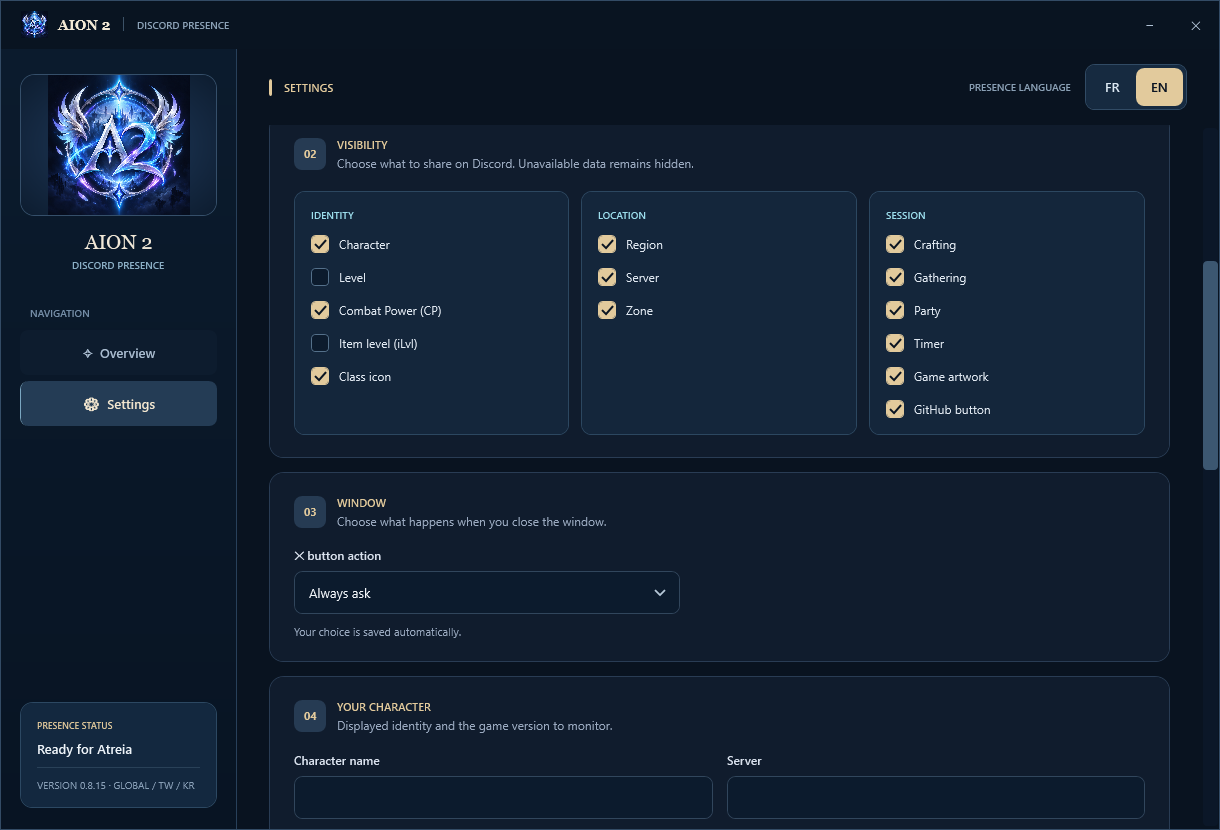
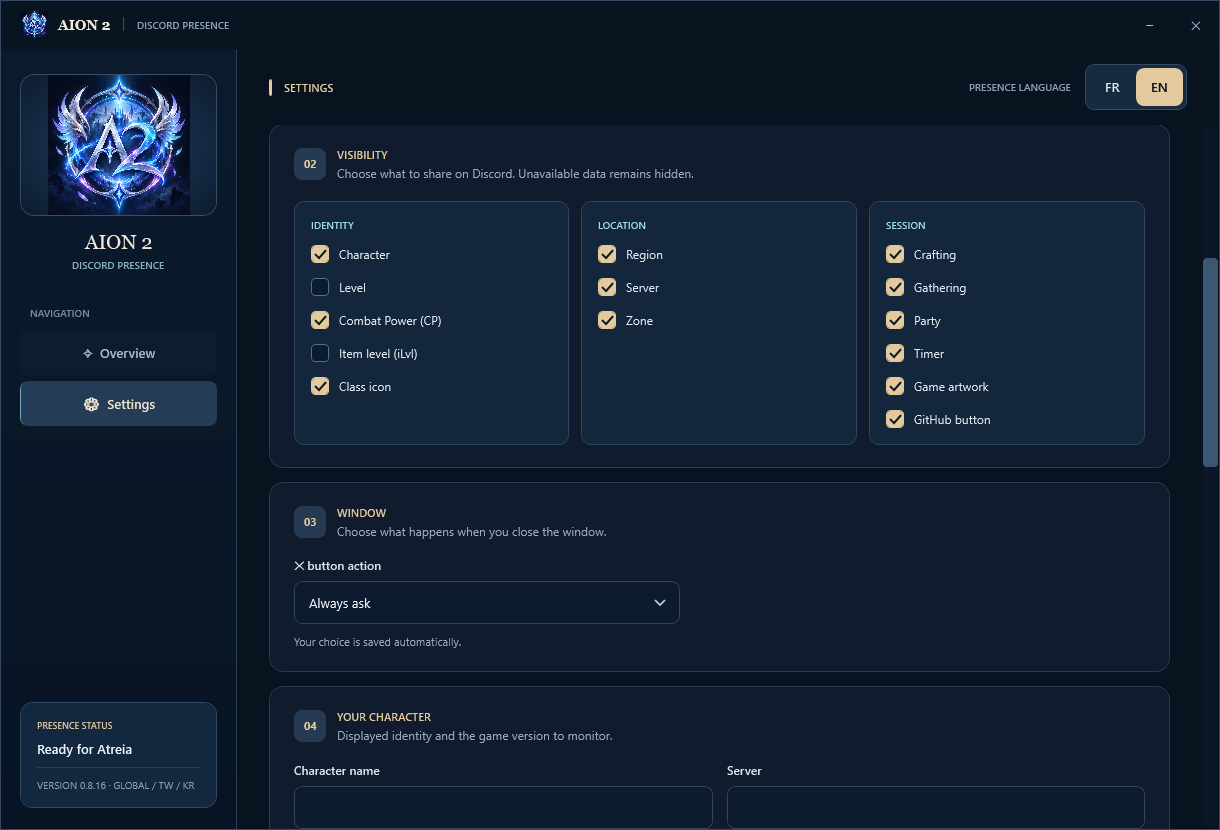
Update documentation and screenshots for 0.8.16

diff --git a/README.md b/README.md
@@ -14,13 +14,13 @@ Show your **AION 2** character and game session on Discord. AION 2 Discord Prese
 | Discord desktop app, signed in | To display the Rich Presence. |
 | AION 2 running with a character connected | To receive game session data. |
 | [Npcap](https://npcap.com/#download), installed separately | For automatic character data detection on Global. It is not included in our installer. |
-| Internet access | For downloads, updates, and the public NCSOFT server-name lookup. The location catalog is included in the app. |
+| Internet access | For downloads, updates, and the public NCSOFT server-name lookup. A location catalog is included in the app and can receive separate data updates. |
 
 A Discord developer account is not required. The shared Application ID and game/class artwork are already configured. PowerShell 7 is not required, and no PowerShell terminal opens when the app starts.
 
 ## Download and first setup
 
-1. Download [AionPresence-Setup-0.8.15.exe](https://github.com/KaiiZzeR971/AION-2-Discord-Rich-Presence/releases/download/v0.8.15/AionPresence-Setup-0.8.15.exe) from this repository's Releases.
+1. Download [AionPresence-Setup-0.8.16.exe](https://github.com/KaiiZzeR971/AION-2-Discord-Rich-Presence/releases/download/v0.8.16/AionPresence-Setup-0.8.16.exe) from this repository's Releases.
 2. Run the installer. Installation is required. The app is installed for your Windows account and added to the Start menu.
 3. For Global automatic detection, complete the [Npcap setup](#npcap-setup-for-global) below before starting the game.
 4. Open **AION 2 Discord Presence** from the Start menu once. Select **EN** or **FR**, leave the client selection on **Auto**, and choose which fields to display in Settings.
@@ -29,7 +29,7 @@ A Discord developer account is not required. The shared Application ID and game/
 
 After setup, the app launches quietly near the Windows clock when the game starts. You can open its window from the notification icon. Preferences are saved automatically. Unavailable data and disabled fields are omitted from the presence.
 
-The installer is currently **unsigned**, so Windows may display a warning. A [SHA-256 checksum](https://github.com/KaiiZzeR971/AION-2-Discord-Rich-Presence/releases/download/v0.8.15/AionPresence-Setup-0.8.15.sha256) is provided alongside the installer.
+The installer is currently **unsigned**, so Windows may display a warning. A [SHA-256 checksum](https://github.com/KaiiZzeR971/AION-2-Discord-Rich-Presence/releases/download/v0.8.16/AionPresence-Setup-0.8.16.sha256) is provided alongside the installer.
 
 ## Npcap setup for Global
 
@@ -64,7 +64,9 @@ You can install the presence app on another local disk, including folders with s
 - **CP formatting:** game-style compact values such as `CP 67.25K` and `CP 1.23M`, with the complete number retained internally.
 - **Server region:** derived from the server ID. The **server name** is looked up through [NCSOFT's public character search](https://aion2.plaync.com/) using the character name, server ID, and region. Lookup depends on the public service and is refreshed at most every five minutes.
 - **Location after loading:** an offline catalog associates **553 destination IDs across 93 maps** with the client's English and French names. The app checks that the destination belongs to the reported map.
-- **Dungeon location:** a second catalog covers **82 dungeon map variants**, with English and French names. Instanced scene messages are supported, including Vakron Sky Island.
+- **Dungeon location:** a second catalog covers **346 named maps**, including **160 sealed dungeons** such as Final Haven, with English and French names. Instanced scene messages are supported, including Vakron Sky Island.
+- **Walking location:** 406 zone volumes across nine Global maps resolve confirmed character positions to English or French place names, including altitude checks. A location change can update the presence without a teleport.
+- **Location catalog updates:** new compatible map names, destinations and zone geometry can be downloaded every six hours, or from the manual update check, without reinstalling or restarting the app. This works independently of automatic installer updates. Verified data is cached for offline use. New game content must first be verified and published by the maintainer; protocol changes can still require an application update.
 - **Party membership:** the app reads your own Party Finder room's roster and member updates. It displays the count and capacity, distinguishes the recruitment lobby from the dungeon group, and clears the count when you leave. Normal parties and 20-player forces are supported, including forces created directly or converted from a party. The counter follows the zone on the second line, including during gathering; region and server are hidden while the counter is displayed. The **Party** visibility option controls this field.
 - **Party display:** the native member counter follows the zone on the second presence line, for example `Vakron Sky Island (4/5)`. Character information stays on the first line; region and server are hidden while the party is displayed. If the zone is unavailable or hidden, Party or Lobby is used before the counter. The timer remains separate.
 - **Region and server:** compact format such as `EU · Israphel - Safe Haven` outside a displayed party. The zone shows only its name and uses a hyphen separator. Empty or hidden fields leave no separator behind.
@@ -79,7 +81,7 @@ Character identity, class, level, item level, CP, server and the last detected m
 - Gathering has been validated with Diamond and Odyle on Global EU. Detection starts with the first recognized result, including unsuccessful attempts. Other gathering types and TW/KR remain unverified.
 
 - Crafting has been validated with Sapphire Ring and Sapphire Decoration on Global EU, including a batch stopped after a completed quality-upgraded item. Other professions and TW/KR remain unverified. If an individual craft is interrupted without a recognized result, the activity expires within one minute.
-- Location detection follows the game's scene messages. The displayed place is the **last detected loaded destination**. Continuous updates while walking between areas are not yet verified.
+- Walking location updates depend on confirmed own-character positions sent by the game. Their timing is not continuous. Nine Global maps have validated zone geometry; other maps use recognized destination or map names.
 - A destination missing from the catalog shows a recognized map name. If the map is also unknown, the location stays hidden.
 - Party detection has been tested with a five-player Party Finder group, a solo normal party, and solo force creation, conversion and departure on Global Steam EU. Forces with several players have passed simulated roster tests; live validation across subgroups is still pending. Normal parties with several players, additional member formats, TW/KR, and other regions still require validation. After reopening the app, the count stays hidden until a recognized fresh roster is received. Changes depend on membership messages sent by the game.
 - The catalog contains client data, but every destination has not been tested in a live session. The complete Global feature set is not yet verified across all clients, servers, and regions.
@@ -109,7 +111,7 @@ Default visibility: character, CP, class icon, region, server, zone, party, craf
 | The GitHub button appears but character details are missing | Check that Character and the other desired fields are enabled in Settings. Compare the local preview: if it is empty too, keep the app running and reconnect your character so it can receive fresh data. |
 | The game is detected but the client is unknown | Select Global, TW, or KR manually in Settings, according to the installed game version. |
 | The server name is empty | The public NCSOFT lookup may be unavailable or may not return the character. A saved server field can be used as a fallback. |
-| The location does not change while walking | This behavior is not yet validated. The app currently follows scene messages and keeps the last detected loaded destination. |
+| The location does not change while walking | Update to 0.8.16 or later. Walking updates need a fresh own-character identity and position reports on a supported map. Their timing depends on the game. Use the update check to refresh catalog data; unknown maps remain hidden. |
 | The party does not appear | Enable Party in the visibility settings and keep the app running before creating or joining a group. A recognized fresh roster is needed after reopening the app. Normal-party support is currently limited to validated message formats. |
 | There is no presence on Discord | Keep Discord desktop open and signed in, verify that activity sharing is enabled in Discord, and make sure monitoring is running in the presence app. |
 | The app says Presence active, but the profile shows nothing | Discord accepted the activity command, but profile visibility also depends on Discord's global activity sharing, the game's individual sharing setting and server privacy settings. See [Discord's activity sharing guide](https://support.discord.com/hc/en-us/articles/7931156448919-Activity-Sharing-on-Discord-FAQ). |
@@ -153,13 +155,13 @@ Affichez votre personnage et votre session **AION 2** sur Discord. AION 2 Discor
 | Application Discord de bureau, avec un compte connecté | Afficher la Rich Presence. |
 | AION 2 lancé avec un personnage connecté | Recevoir les données de la session de jeu. |
 | [Npcap](https://npcap.com/#download), installé séparément | Détection automatique des données du personnage sur Global. Il n'est pas inclus dans notre installateur. |
-| Connexion Internet | Téléchargements, mises à jour et recherche publique du nom du serveur chez NCSOFT. Le catalogue des lieux est intégré à l'application. |
+| Connexion Internet | Téléchargements, mises à jour et recherche publique du nom du serveur chez NCSOFT. Un catalogue des lieux est intégré à l'application et peut recevoir des mises à jour de données séparées. |
 
 Aucun compte développeur Discord n'est nécessaire. L'Application ID partagé et les images du jeu et des classes sont déjà configurés. PowerShell 7 n'est pas requis et aucun terminal PowerShell ne s'ouvre au lancement.
 
 ### Télécharger et configurer
 
-1. Téléchargez [AionPresence-Setup-0.8.15.exe](https://github.com/KaiiZzeR971/AION-2-Discord-Rich-Presence/releases/download/v0.8.15/AionPresence-Setup-0.8.15.exe) depuis les Releases de ce dépôt.
+1. Téléchargez [AionPresence-Setup-0.8.16.exe](https://github.com/KaiiZzeR971/AION-2-Discord-Rich-Presence/releases/download/v0.8.16/AionPresence-Setup-0.8.16.exe) depuis les Releases de ce dépôt.
 2. Lancez l'installateur. L'installation est obligatoire. L'application est installée pour votre compte Windows et ajoutée au menu Démarrer.
 3. Pour la détection automatique sur Global, effectuez la [configuration Npcap](#configuration-de-npcap-pour-global) ci-dessous avant de lancer le jeu.
 4. Ouvrez une première fois **AION 2 Discord Presence** depuis le menu Démarrer. Choisissez **FR** ou **EN**, laissez la version du client sur **Auto** et choisissez les champs à afficher dans les paramètres.
@@ -168,7 +170,7 @@ Aucun compte développeur Discord n'est nécessaire. L'Application ID partagé e
 
 Après cette configuration, l'application démarre discrètement près de l'horloge Windows avec le jeu. Son icône de notification permet de rouvrir la fenêtre. Les préférences sont sauvegardées automatiquement. Les champs indisponibles ou désactivés sont omis de la présence.
 
-L'installateur est actuellement **non signé** ; Windows peut afficher un avertissement. Une [somme SHA-256](https://github.com/KaiiZzeR971/AION-2-Discord-Rich-Presence/releases/download/v0.8.15/AionPresence-Setup-0.8.15.sha256) accompagne l'installateur.
+L'installateur est actuellement **non signé** ; Windows peut afficher un avertissement. Une [somme SHA-256](https://github.com/KaiiZzeR971/AION-2-Discord-Rich-Presence/releases/download/v0.8.16/AionPresence-Setup-0.8.16.sha256) accompagne l'installateur.
 
 ### Configuration de Npcap pour Global
 
@@ -203,7 +205,9 @@ Vous pouvez installer l'application de présence sur un autre disque local, y co
 - **Format du CP :** valeurs compactes comme dans le jeu, par exemple `CP 67.25K` et `CP 1.23M`, avec conservation du nombre complet en interne.
 - **Région du serveur :** déterminée depuis l'identifiant du serveur. Son **nom** est recherché dans la [recherche publique de personnages NCSOFT](https://aion2.plaync.com/) avec le nom du personnage, l'identifiant du serveur et la région. Cette recherche dépend du service public et s'actualise au maximum toutes les cinq minutes.
 - **Lieu après chargement :** le catalogue local associe **553 identifiants de destination sur 93 cartes** aux noms français et anglais du client. L'application vérifie que la destination appartient à la carte transmise.
-- **Lieu en donjon :** un second catalogue couvre **82 variantes de cartes de donjon**, avec leurs noms français et anglais. Les messages de chargement en instance sont pris en charge, dont ceux de l'Île Céleste de Vakron.
+- **Lieu en donjon :** un second catalogue couvre **346 cartes nommées**, dont **160 donjons scellés** comme le Dernier Havre, avec leurs noms français et anglais. Les messages de chargement en instance sont pris en charge, dont ceux de l'Île Céleste de Vakron.
+- **Lieu pendant les déplacements :** 406 volumes de zone sur neuf cartes Global relient les positions confirmées du personnage aux noms français ou anglais, avec prise en compte de l'altitude. Le lieu peut changer dans la présence sans téléportation.
+- **Mises à jour du catalogue :** les nouveaux noms de cartes, destinations et contours de zones compatibles peuvent être téléchargés toutes les six heures ou depuis la recherche manuelle des mises à jour, sans réinstallation ni redémarrage. Ce fonctionnement est indépendant des mises à jour automatiques de l'installateur. Les données vérifiées sont conservées hors ligne. Les nouveaux contenus doivent d'abord être vérifiés et publiés par le mainteneur ; une évolution du protocole peut encore demander une mise à jour de l'application.
 - **Membres du groupe :** l'application lit la liste de votre propre salon du Party Finder et ses mises à jour. Elle affiche le nombre de membres et la capacité, distingue le salon de recrutement du groupe en donjon et efface le compteur à votre départ. Les groupes classiques et troupes de 20 joueurs sont pris en charge, y compris les troupes créées directement ou issues d'un groupe. Le compteur suit la zone sur la deuxième ligne, y compris pendant la récolte ; région et serveur sont masqués lorsque le compteur est affiché. L'option d'affichage **Groupe** contrôle ce champ.
 - **Affichage du groupe :** le compteur natif suit la zone sur la deuxième ligne, par exemple `Île Céleste de Vakron (4/5)`. Les informations du personnage restent sur la première ligne ; région et serveur sont masqués lorsque le groupe est affiché. Si la zone est inconnue ou masquée, Groupe ou Salon précède le compteur. Le chronomètre reste séparé.
 - **Région et serveur :** format compact comme `EU · Israphel - Safe Haven` hors groupe affiché, avec uniquement le nom de la zone et un trait d'union pour la séparer du serveur. Les champs vides ou masqués ne laissent aucun séparateur.
@@ -218,7 +222,7 @@ L'identité du personnage, la classe, le niveau, l'iLvl, le CP, le serveur et la
 - La récolte a été validée avec le diamant et l’odyle sur Global EU. La détection commence au premier résultat reconnu, y compris une tentative infructueuse. Les autres types de récolte et les clients TW/KR restent à valider.
 
 - La fabrication a été validée avec Sapphire Ring et Sapphire Decoration sur Global EU, y compris une série arrêtée après un objet terminé de qualité supérieure. Les autres métiers et les clients TW/KR restent à valider. Si une fabrication individuelle est interrompue sans résultat reconnu, l’activité expire en une minute au maximum.
-- La détection du lieu suit les messages de chargement du jeu. Le lieu affiché est la **dernière destination chargée détectée**. Les changements continus à pied entre les lieux ne sont pas encore validés.
+- Le suivi à pied dépend des positions confirmées du personnage transmises par le jeu ; son rythme n'est pas continu. Neuf cartes Global disposent de contours de zones vérifiés. Ailleurs, les destinations ou noms de carte reconnus sont utilisés.
 - Une destination absente du catalogue affiche le nom de la carte si elle est reconnue. Si la carte est également inconnue, le lieu reste masqué.
 - La détection a été testée avec un groupe de cinq joueurs du Party Finder, un groupe solo classique et la création, conversion et sortie d'une troupe solo sur Global Steam EU. Les troupes à plusieurs joueurs ont passé des tests avec des listes simulées ; la validation réelle entre sous-groupes reste à effectuer. Les groupes classiques à plusieurs joueurs, les autres formats de membres, clients TW/KR et autres régions restent à valider. Après une réouverture de l'application, le compteur reste masqué jusqu'à réception d'une nouvelle liste reconnue. Les changements dépendent des messages de membres transmis par le jeu.
 - Le catalogue provient des données du client, mais chaque destination n'a pas été testée en jeu. L'ensemble des fonctions Global n'est pas encore vérifié sur tous les clients, serveurs et régions.
@@ -248,7 +252,7 @@ Affichage initial : personnage, CP, icône de classe, région, serveur, zone, gr
 | Le bouton GitHub apparaît mais les détails du personnage manquent | Vérifiez que Personnage et les autres champs souhaités sont activés dans les paramètres. Comparez l'aperçu local : s'il est également vide, gardez l'application ouverte et reconnectez votre personnage pour recevoir de nouvelles données. |
 | Le jeu est détecté, mais son client est inconnu | Sélectionnez Global, TW ou KR manuellement dans les paramètres, selon votre version du jeu. |
 | Le nom du serveur reste vide | La recherche publique NCSOFT peut être indisponible ou ne pas retourner le personnage. Le champ serveur enregistré peut servir de secours. |
-| Le lieu ne change pas en marchant | Ce comportement n'est pas encore validé. L'application suit actuellement les messages de chargement et garde la dernière destination chargée détectée. |
+| Le lieu ne change pas en marchant | Installez la version 0.8.16 ou une version ultérieure. Le suivi exige une identité et des positions récentes du personnage sur une carte prise en charge. Son rythme dépend du jeu. La recherche des mises à jour actualise aussi le catalogue ; les cartes inconnues restent masquées. |
 | Le groupe n'apparaît pas | Activez Groupe dans les options d'affichage et gardez l'application ouverte avant de créer ou rejoindre un groupe. Une nouvelle liste reconnue est nécessaire après réouverture. La prise en charge des groupes classiques est actuellement limitée aux formats de messages validés. |
 | Aucune présence n'apparaît sur Discord | Gardez Discord de bureau ouvert avec votre compte connecté, vérifiez que le partage d'activité est activé dans Discord et que la surveillance est démarrée dans l'application. |
 | L'application indique Présence active mais le profil n'affiche rien | Discord a accepté la commande, mais son affichage dépend aussi du partage global d'activité, du réglage propre au jeu et de la confidentialité du serveur. Consultez le [guide du partage d'activité de Discord](https://support.discord.com/hc/fr/articles/7931156448919-FAQ-sur-le-partage-d-activit%C3%A9-sur-Discord). |
